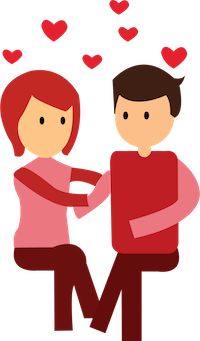
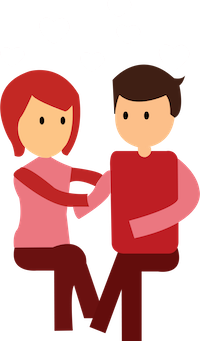
add some animation for profile

diff --git a/css/animation.css b/css/animation.css
@@ -11,59 +11,95 @@
     50%   {transform: translateY(0px);}
     100% {transform: translateY(-10px);}
 }
+
+/* Chrome, Safari, Opera */
+@-webkit-keyframes location {
+    0%   {transform: translateY(-5px);}
+    50%   {transform: translateY(0px);}
+    100% {transform: translateY(-5px);}
+}
+
+/* Standard syntax */
+@keyframes location {
+    0%   {transform: translateY(-5px);}
+    50%   {transform: translateY(0px);}
+    100% {transform: translateY(-5px);}
+}
+/* Chrome, Safari, Opera */
+@-webkit-keyframes heart {
+    0%   {top: 40px;opacity: 1}
+    100% {top: -10px;opacity: 0}
+}
+
+/* Standard syntax */
+@keyframes heart {
+    0%   {top: 40px;opacity: 1}
+    100% {top: -10px;opacity: 0}
+}
+/* Chrome, Safari, Opera */
+@-webkit-keyframes demo {
+    0%   {transform: translateY(-100%);}
+    100% {transform: translateY(0);}
+}
+
+/* Standard syntax */
+@keyframes demo {
+    0%   {transform: translateY(-100%);}
+    100% {transform: translateY(0);}
+}
 /* Chrome, Safari, Opera */
 @-webkit-keyframes air_balloon {
-    0%   {transform: translateX(-2px); top: 600px;}
-    2%   {transform: translateX(2px);}
-    4%   {transform: translateX(-2px);}
-    6%   {transform: translateX(2px);}
-    8%   {transform: translateX(-2px);}
-    10%   {transform: translateX(2px);}
-    12%   {transform: translateX(-2px);}
-    14%   {transform: translateX(2px);}
-    16%   {transform: translateX(-2px);}
-    18%   {transform: translateX(2px);}
-    20%   {transform: translateX(-2px);}
-    22%   {transform: translateX(2px);}
-    24%   {transform: translateX(-2px);}
-    26%   {transform: translateX(2px);}
-    28%   {transform: translateX(-2px);}
-    30%   {transform: translateX(2px);}
-    32%   {transform: translateX(-2px);}
-    34%   {transform: translateX(2px);}
-    36%   {transform: translateX(-2px);}
-    38%   {transform: translateX(2px);}
-    40%   {transform: translateX(-2px);}
-    42%   {transform: translateX(2px);}
-    44%   {transform: translateX(-2px);}
-    46%   {transform: translateX(2px);}
-    48%   {transform: translateX(-2px);}
-    50%   {transform: translateX(2px);}
-    52%   {transform: translateX(-2px);}
-    54%   {transform: translateX(2px);}
-    56%   {transform: translateX(-2px);}
-    58%   {transform: translateX(2px);}
-    60%   {transform: translateX(-2px);}
-    62%   {transform: translateX(2px);}
-    64%   {transform: translateX(-2px);}
-    66%   {transform: translateX(2px);}
-    68%   {transform: translateX(-2px);}
-    70%   {transform: translateX(2px);}
-    72%   {transform: translateX(-2px);}
-    74%   {transform: translateX(2px);}
-    76%   {transform: translateX(-2px);}
-    78%   {transform: translateX(2px);}
-    80%   {transform: translateX(-2px);}
-    82%   {transform: translateX(2px);}
-    84%   {transform: translateX(-2px);}
-    86%   {transform: translateX(2px);}
-    88%   {transform: translateX(-2px);}
-    90%   {transform: translateX(2px);}
-    92%   {transform: translateX(-2px);}
-    94%   {transform: translateX(2px);}
-    96%   {transform: translateX(-2px);}
-    98%   {transform: translateX(2px);}
-    100% {transform: translateX(-2px); top: -150px;}
+    0%   {transform: translateX(-2); top: 600px;}
+    2%   {transform: translateX(2);}
+    4%   {transform: translateX(-2);}
+    6%   {transform: translateX(2);}
+    8%   {transform: translateX(-2);}
+    10%   {transform: translateX(2);}
+    12%   {transform: translateX(-2);}
+    14%   {transform: translateX(2);}
+    16%   {transform: translateX(-2);}
+    18%   {transform: translateX(2);}
+    20%   {transform: translateX(-2);}
+    22%   {transform: translateX(2);}
+    24%   {transform: translateX(-2);}
+    26%   {transform: translateX(2);}
+    28%   {transform: translateX(-2);}
+    30%   {transform: translateX(2);}
+    32%   {transform: translateX(-2);}
+    34%   {transform: translateX(2);}
+    36%   {transform: translateX(-2);}
+    38%   {transform: translateX(2);}
+    40%   {transform: translateX(-2);}
+    42%   {transform: translateX(2);}
+    44%   {transform: translateX(-2);}
+    46%   {transform: translateX(2);}
+    48%   {transform: translateX(-2);}
+    50%   {transform: translateX(2);}
+    52%   {transform: translateX(-2);}
+    54%   {transform: translateX(2);}
+    56%   {transform: translateX(-2);}
+    58%   {transform: translateX(2);}
+    60%   {transform: translateX(-2);}
+    62%   {transform: translateX(2);}
+    64%   {transform: translateX(-2);}
+    66%   {transform: translateX(2);}
+    68%   {transform: translateX(-2);}
+    70%   {transform: translateX(2);}
+    72%   {transform: translateX(-2);}
+    74%   {transform: translateX(2);}
+    76%   {transform: translateX(-2);}
+    78%   {transform: translateX(2);}
+    80%   {transform: translateX(-2);}
+    82%   {transform: translateX(2);}
+    84%   {transform: translateX(-2);}
+    86%   {transform: translateX(2);}
+    88%   {transform: translateX(-2);}
+    90%   {transform: translateX(2);}
+    92%   {transform: translateX(-2);}
+    94%   {transform: translateX(2);}
+    96%   {transform: translateX(-2);}
+    98%   {transform: translateX(2);}
+    100% {transform: translateX(-2); top: -150px;}
 }
 
 /* Standard syntax */

diff --git a/js/main.js b/js/main.js
@@ -10,6 +10,25 @@ $(document).ready(function(){
 	$('.group-air-balloon img:nth-child(4)').css({'animation-delay': '10s'});
 	$('.group-air-balloon img:nth-child(5)').css({'animation-delay': '40s'});
 
+	//Animation Heart
+	$('.group-heart img:nth-child(1)').css({'animation-delay': '0s'});
+	$('.group-heart img:nth-child(2)').css({'animation-delay': '2.2s'});
+	$('.group-heart img:nth-child(3)').css({'animation-delay': '0.7s'});
+	$('.group-heart img:nth-child(4)').css({'animation-delay': '4s'});
+	$('.group-heart img:nth-child(5)').css({'animation-delay': '1.3s'});
+	$('.group-heart img:nth-child(6)').css({'animation-delay': '3.2s'});
+
+	//Popup Demo
+	$('.demo').click(function(event) {
+		$('.portfolio-section').css('display','block');
+	});
+	$('.portfolio-content').click(function(event) {
+		event.stopPropagation();
+	});
+	$('.portfolio-section').click(function(event) {
+		$('.portfolio-section').css('display','none');
+	});
+
 	//Animation Scroll
 	$(window).scroll(function(){
 		if($(this).scrollTop() > 150){
@@ -26,7 +45,7 @@ $(document).ready(function(){
 		}
 
 		//Animation My Skill
-		if($(this).scrollTop() > 800){
+		if($(this).scrollTop() > 600){
 			$('.html h6').css({'transform':'translateY(0px)','opacity':'1'});
 			$('.css h6').css({'transform':'translateY(0px)','opacity':'1','transition-delay':'0.3s'});
 			$('.jquery h6').css({'transform':'translateY(0px)','opacity':'1','transition-delay':'0.6s'});
@@ -37,28 +56,49 @@ $(document).ready(function(){
 			for(var i = 2; i <= $('.html img').size() + 1; i++){
 				delay_skill = delay_skill + 0.2;
 				$('.html img:nth-child(' + i + ')').css({'opacity': '1','right': right + 'px','transition-delay': delay_skill + 's'});
-				right = right - 40;
+				right = right - 35;
 			}
 			var right = 170;
 			for(var i = 2; i <= $('.css img').size() + 1; i++){
 				delay_skill = delay_skill + 0.2;
 				$('.css img:nth-child(' + i + ')').css({'opacity': '1','right': right + 'px','transition-delay': delay_skill + 's'});
-				right = right - 40;
+				right = right - 35;
 			}
 			var right = 175;
 			for(var i = 2; i <= $('.jquery img').size() + 1; i++){
 				delay_skill = delay_skill + 0.2;
 				$('.jquery img:nth-child(' + i + ')').css({'opacity': '1','right': right + 'px','transition-delay': delay_skill + 's'});
-				right = right - 40;
+				right = right - 35;
 			}
 			var right = 170;
 			for(var i = 2; i <= $('.pts img').size() + 1; i++){
 				delay_skill = delay_skill + 0.2;
 				$('.pts img:nth-child(' + i + ')').css({'opacity': '1','right': right + 'px','transition-delay': delay_skill + 's'});
-				right = right - 40;
+				right = right - 35;
+			}
+		}
+
+		//Animation History
+		if($(this).scrollTop() > 1000){
+			$('.education .icon-location .location').css({'opacity': '1'});
+			$('.education .info').css({'transform': 'translateX(0)','transition-delay':'0.5s'});
+		}
+		if($(this).scrollTop() > 1200){
+			$('.emotive .icon-location .location').css({'opacity': '1','transition-delay':'1s'});
+			$('.emotive .info').css({'transform': 'translateX(0)','transition-delay':'1.5s'});
+		}
+		if($(this).scrollTop() > 1400){
+			$('.goldenowl .icon-location .location').css({'opacity': '1','transition-delay':'2s'});
+			$('.goldenowl .info').css({'transform': 'translateX(0)','transition-delay':'2.5s'});
+		}
+
+		//Animation Information
+		if($(this).scrollTop() > 2000){
+			var delay_info = 0;
+			for(var i = 2; i <= 4; i++){
+				$('.form-info:nth-child(' + i + ')').css({'transform': 'translateX(0)','transition-delay': delay_info + 's'});
+				delay_info = delay_info + 0.2;
 			}
 		}
 	});
-
-	
 });

diff --git a/css/main.css b/css/main.css
@@ -251,6 +251,7 @@ a{
 .children{
 	position: absolute;
 	width: 60px;
+	z-index: 1;
 }
 .family{
 	position: absolute;
@@ -262,6 +263,14 @@ a{
 }
 .flower-section{
 	position: absolute;
+}
+.heart{
+	position: absolute;
+	width: 13px;
+	top: 40px;
+	opacity: 0;
+	-webkit-animation: heart 5s infinite; /* Chrome, Safari, Opera */
+    animation: heart 5s infinite;
 }
 .myskill{
 	background-image: url('../img/img-profile/store.png');
@@ -335,6 +344,9 @@ a{
 	font-size: 32px;
 	text-align: center;
 	padding-top: 7px;
+	opacity: 0;
+	transition: 1s;
+	animation: location 1s infinite;
 }
 .info{
 	background-image: url('../img/img-profile/message.png');
@@ -342,9 +354,11 @@ a{
 	width: 300px;
 	height: 200px;
 	position: absolute;
-	top: -220px;
-	right: 40px;
+	top: -225px;
+	right: 45px;
 	padding: 28px 20px;
+	transform: translateX(-200%);
+	transition: 0.8s;
 }
 .info h6{
 	color: #9ECB3B;
@@ -422,6 +436,8 @@ a{
 	left: 360px;
 	top: 95px;
 	width: 130px;
+	transform: translateX(150%);
+	transition: 0.5s;
 }
 .form-info img{
 	width: 12px;
@@ -445,7 +461,61 @@ a{
 	top: 215px;
 }
 
-
+.portfolio-section{
+	position: fixed;
+	top: 0;
+	width: 100%;
+	height: 100%;
+	z-index: 2;
+	display: none;
+}
+.portfolio-bg{
+	background-color: #fff;
+	opacity: 0.8;
+	position: absolute;
+	width: 100%;
+	height: 100%;
+}
+.portfolio-content{
+	position: relative;
+	width: 900px;
+	margin: 20px auto;
+	transform: translateY(-100%);
+	transition: 1s;
+	-webkit-animation: demo 1s forwards; /* Chrome, Safari, Opera */
+    animation: demo 1s forwards;
+}
+.portfolio-content .title{
+	background-image: url('../img/img-profile/bg-demo.png');
+	background-size: 100% 100%;
+	width: 900px;
+	height: 160px;
+	color: #fff;
+	font-size: 35px;
+	padding-top: 18px;
+	margin-bottom: 0px;
+	position: relative;
+	z-index: 1;
+}
+.portfolio{
+	width: 850px;
+	background-color: #fff;
+	padding: 50px 30px 20px;
+	margin: auto;
+	position: relative;
+	top: -35px;
+	text-align: center;
+}
+.portfolio h5{
+	background-image: url('../img/img-profile/skill-box-demo.png');
+	background-size: 100% 100%;
+	color: #fff;
+	display: inline-block;
+	text-transform: uppercase;
+	padding: 10px 50px 14px;
+	font-size: 16px;
+	font-weight: bold;
+}
 
 
 

diff --git a/test.html b/test.html
@@ -254,11 +254,19 @@
 					<img src="img/img-profile/tree-tall.png" alt="" class="tree tree-tall" style="left: 60px; top: 55px">
 					<img src="img/img-profile/chair.png" alt="" class="chair" style="left: 150px; top: 85px">
 					<!-- Couple -->
-					<img src="img/img-profile/couple.png" alt="" class="couple" style="left: 192px; top: 0px">
+					<div class="group-heart">
+						<img src="img/img-profile/icon-heart.png" alt="" class="heart" style="left: 192px; width: 10px">
+						<img src="img/img-profile/icon-heart.png" alt="" class="heart" style="left: 215px;">
+						<img src="img/img-profile/icon-heart.png" alt="" class="heart" style="left: 235px; width: 10px">
+						<img src="img/img-profile/icon-heart.png" alt="" class="heart" style="left: 250px; width: 10px">
+						<img src="img/img-profile/icon-heart.png" alt="" class="heart" style="left: 255px; width: 10px">
+						<img src="img/img-profile/icon-heart.png" alt="" class="heart" style="left: 275px;">
+						<img src="img/img-profile/couple.png" alt="" class="couple" style="left: 192px; top: 0px">
+					</div>
 					<!-- Flower	 -->
 					<div class="flower-section" style="right: 150px; top: 220px">
-						<img src="img/img-profile/flower.png" alt="" class="flower">
 						<img src="img/img-profile/flower.png" alt="" class="flower" style="left: 60px; top: -20px">
+						<img src="img/img-profile/flower.png" alt="" class="flower">
 					</div>
 				</div>
 
@@ -318,6 +326,16 @@
 						<span>tuonglinh1994</span>
 					</h6>
 				</div>
+			</div>
+		</div>
+	</div>
+
+	<div class="portfolio-section">
+		<div class="portfolio-bg"></div>
+		<div class="portfolio-content">
+			<h4 class='title'>Portfolio</h4>
+			<div class="portfolio">
+				<h5>Website</h5>
 			</div>
 		</div>
 	</div>
